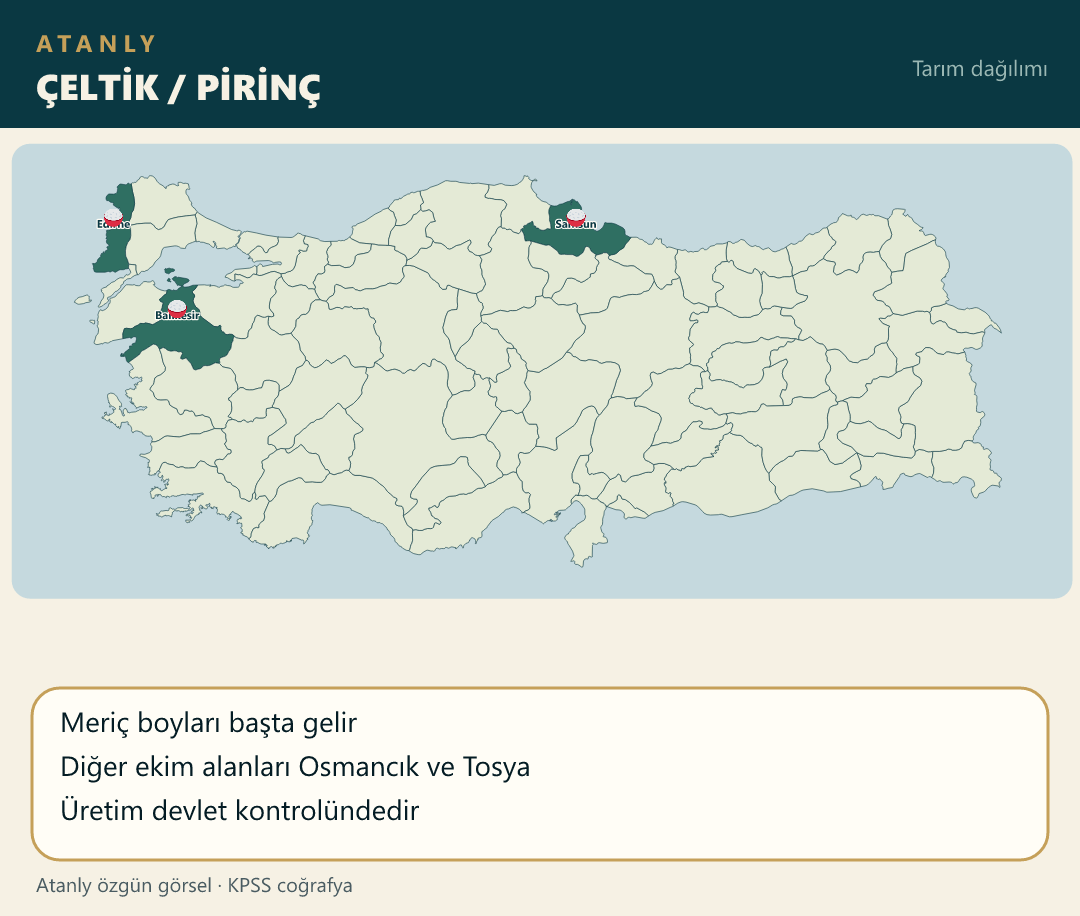
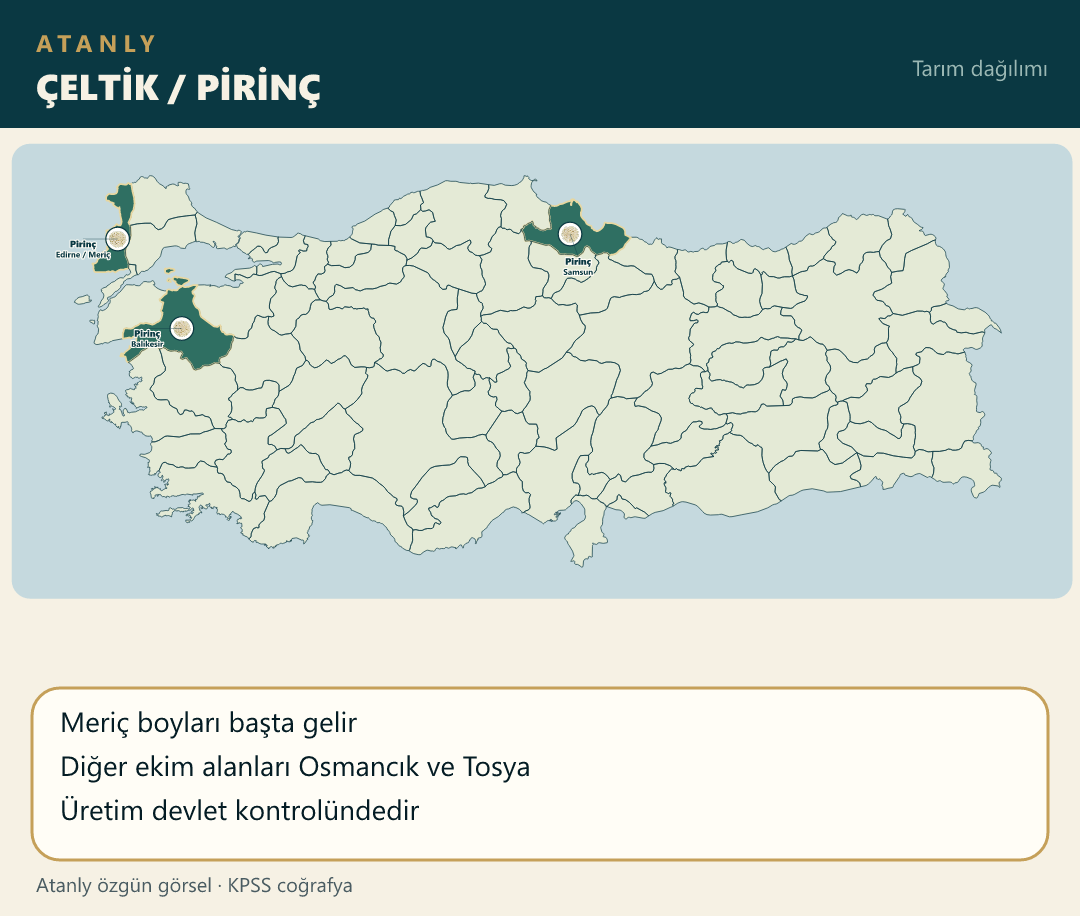
Place the rice photo on Edirne, Samsun, and Balikesir land-center pins.

diff --git a/scripts/build-atanly-maps.js b/scripts/build-atanly-maps.js
@@ -740,7 +740,13 @@ function main() {
                 { il: "Konya", ilce: "Cihanbeyli", ldx: 8, ldy: -28 }
             ],
             facts: ["Trakya’nın Sarı Kızı olarak anılır", "Yağ oranı yüksektir"] },
-        { file: "pirinc.jpg", title: "ÇELTİK / PİRİNÇ", iller: ["Edirne", "Samsun", "Balıkesir"], facts: ["Meriç boyları başta gelir", "Diğer ekim alanları Osmancık ve Tosya", "Üretim devlet kontrolündedir"] },
+        { file: "pirinc.jpg", title: "ÇELTİK / PİRİNÇ", urun: "Pirinç",
+            noktalar: [
+                { il: "Edirne", ilce: "Meriç", ldx: -34, ldy: 8 },
+                { il: "Samsun", ldx: 8, ldy: 30 },
+                { il: "Balıkesir", ldx: -34, ldy: 8 }
+            ],
+            facts: ["Meriç boyları başta gelir", "Diğer ekim alanları Osmancık ve Tosya", "Üretim devlet kontrolündedir"] },
         { file: "ay_cicek.jpg", title: "AYÇİÇEĞİ ÜRETİMİ", urun: "Ayçiçeği",
             noktalar: [
                 { il: "Tekirdağ", ilce: "Malkara", ldx: 38, ldy: 30 },

diff --git a/notlar/cografya-18-not.js b/notlar/cografya-18-not.js
@@ -305,7 +305,7 @@ window.cografya_18_notlari = [
         </div>
         <!-- 🗺 HARİTA / RESİM ALANI -->
             <div class="mt-4 overflow-hidden rounded-xl border border-blue-200 dark:border-blue-700/50 bg-white dark:bg-slate-800 p-2">
-                <img src="./src/img/pirinc.jpg?v=9" alt="FINDIK Haritası" class="w-full h-auto rounded-lg object-contain" loading="lazy">
+                <img src="./src/img/pirinc.jpg?v=10" alt="ÇELTİK Haritası" class="w-full h-auto rounded-lg object-contain" loading="lazy">
             </div>
     </div>
     `,

diff --git a/index.html b/index.html
@@ -116,7 +116,7 @@
     <script src="notlar/cografya-15-not.js?v=9"></script>
     <script src="notlar/cografya-16-not.js?v=3"></script>
     <script src="notlar/cografya-17-not.js?v=3"></script>
-    <script src="notlar/cografya-18-not.js?v=17"></script>
+    <script src="notlar/cografya-18-not.js?v=18"></script>
     <script src="notlar/cografya-19-not.js?v=30"></script>
     <script src="notlar/cografya-20-not.js?v=1"></script>
     <script src="notlar/cografya-21-not.js?v=32"></script>
